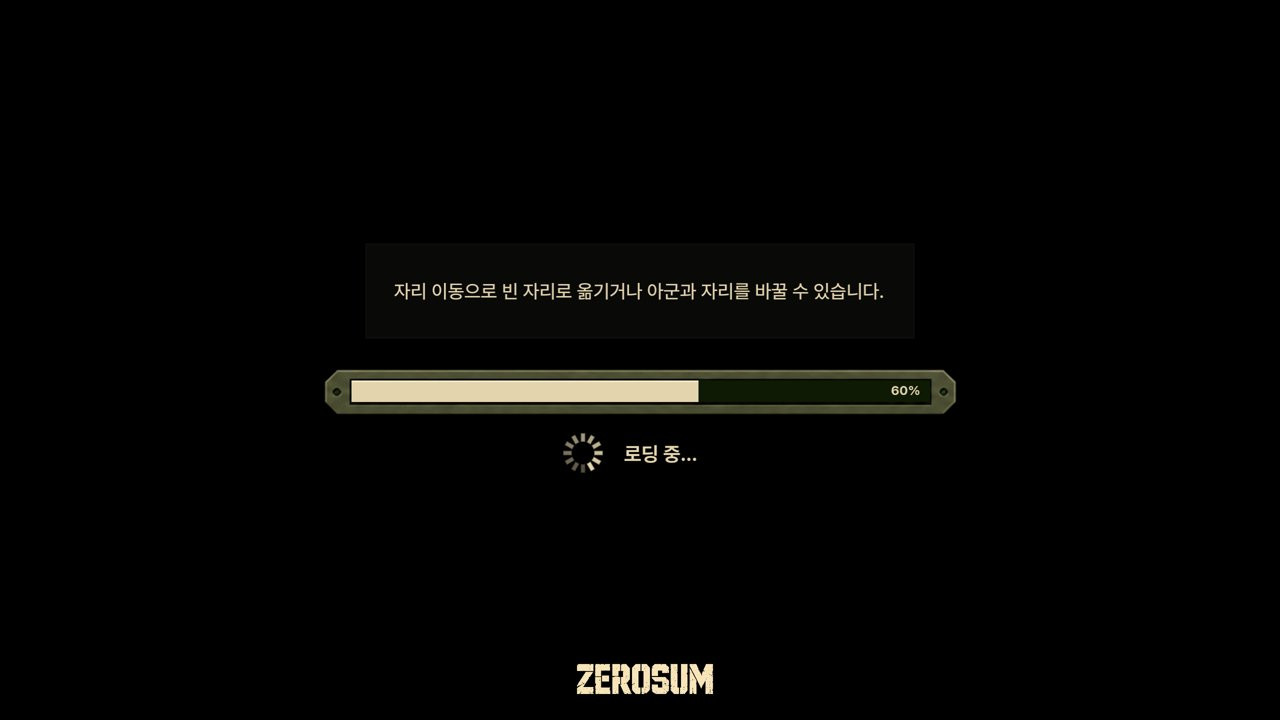
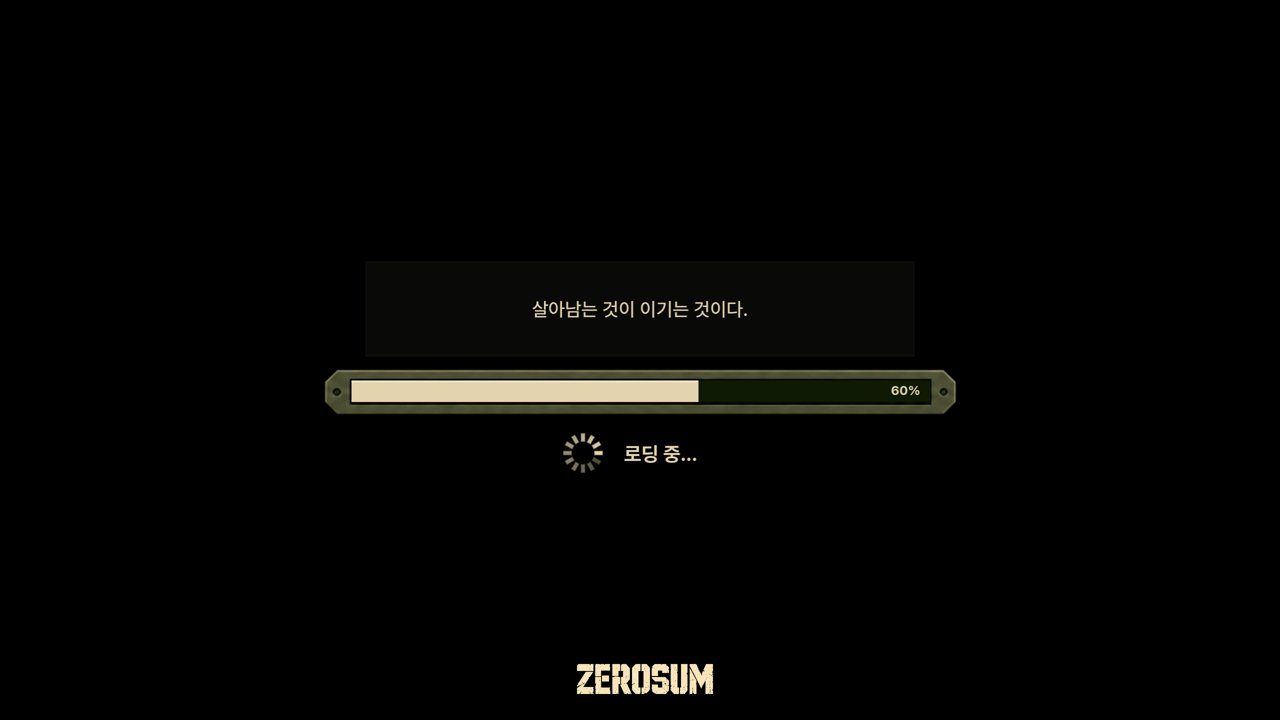
Base: ignore move orders while paused and stop walking in place; lower loading tip
Claude-Session: https://claude.ai/code/session_014aytw3hj7boqn3SZ5GP5ti

Changed region(s): [[0.3125, 0.3972, 0.6875, 0.4583], [0.4375, 0.6111, 0.4688, 0.6722]]

diff --git a/docs/design/PROTOTYPE_GDD_v1_0.md b/docs/design/PROTOTYPE_GDD_v1_0.md
@@ -4,8 +4,9 @@
 
 ## 0. 현재 구현 반영 (변경될 때마다 갱신)
 > 아래는 원 기획 이후 사용자 결정으로 바뀐 내용. 상세 결정 이력은 `00_decision_log_v1_0.md`, 아트 규격은 `../ui_art_spec.md`.
-> 마지막 갱신: 2026-10-31 (로딩 화면 + 로딩 멘트 표 data/loading_tips.xlsx)
+> 마지막 갱신: 2026-10-31 (기지 정지 중 = 이동 지시 안 받음 · 걷던 대원도 멈춤, 로딩 멘트 조금 아래)
 
+- **기지 정지(■) 중**: 대원을 골라 방을 눌러도 이동 지시를 받지 않음(반응 없음, 손가락 커서도 안 뜸). 시계가 멈춘 동안(정지 · 창 열림 · 전투 대기) 걷던 대원은 제자리 걷기 대신 서 있는 모습.
 - **로딩 화면** (레퍼런스 art_src/ui/loading/ref_loading.png): 기지 · 편성 · 전투 · 타이틀로 갈 때 — 검은 바탕, 바 위 로딩 멘트, 진행 바(그림 틀 + 크림색 채움 + %), 돌아가는 점선 고리 + "로딩 중...", 맨 아래 ZEROSUM 로고. 다음 장면을 백그라운드로 읽고(진행률 = 실제), 멘트를 읽을 수 있게 최소 1.2초. **로딩 멘트 = data/loading_tips.xlsx** 시트 "로딩 멘트"(열: 멘트 · 사용(X = 안 씀) · 장면(전체 · 기지 · 전투) · 메모) — 엑셀에서 줄을 더하거나 고치면 다음 로딩부터 바로 반영, 기지로 갈 땐 전체 + 기지 멘트, 전투 · 편성으로 갈 땐 전체 + 전투 멘트 중 무작위(바로 전 멘트는 피함).
 - **타이틀 화면 v2** (사용자 제공 그림 art_src/ui/title/ · 레퍼런스 ref_title.webp): 배경 한 장 + 위 로고 "ZEROSUM"(사용자 제공 logo_zerosum.webp, 가운데보다 살짝 오른쪽) + 아래 띠(9칸 늘리기) 위 그림 버튼 4개 — 이어하기(저장 없으면 흐리게) · 새 게임(저장 있으면 덮어쓰기 확인) · 설정(전체 화면 켜고 끄기 · 전투 테스트 메뉴 — 개발용) · 종료. 마우스 올림 = 금빛으로 밝게 + 살짝 커짐.
 - **실행 창** = 창 모드 1920×1080 (project.godot 창 크기 1920×1080 · 창 모드, 시작할 때 최대화 · 전체 화면이면 창 모드로 되돌림, 제목줄 · 작업 표시줄 포함 화면보다 크면 16:9 로 줄임). F11 = 전체 화면. 에디터 게임 탭 안에 넣어 실행하면 크기는 에디터가 정함. 게임 좌표 1280×720 · 3D 배경 QHD 렌더는 그대로.

diff --git a/docs/design/00_decision_log_v1_0.md b/docs/design/00_decision_log_v1_0.md
@@ -704,6 +704,12 @@
 - 진행률: ResourceLoader 백그라운드 읽기의 실제 진행률과 시간(최소 1.2초) 중 느린 쪽. 장면의 _ready 작업(기지 3D 만들기 등)은 바뀐 뒤라 진행 바에 안 잡힘.
 - 로딩 멘트 표: 새 파일 data/loading_tips.xlsx (기존 엑셀은 안 건드림), 기본 멘트 16개(조작 · 시스템 안내 + 분위기 예시 1). 확인용 --scene=loading --loading_kind=기지|전투 (60% 정지).
 
+### 2026-10-31 — 기지 정지 중 이동 · 로딩 멘트 위치
+- 정지(속도 0) 중 방 클릭 이동 지시를 무시(예전: 지시는 들어가는데 시간이 안 흘러 대원이 제자리에서 걸음). 정지 중엔 방 위 손가락 커서도 안 뜸.
+- 시계가 멈춘 동안(정지 · 창 열림 · 전투 대기) 이동 중인 대원 = 서 있기(idle) 애니메이션.
+- 로딩 멘트 칸 18px 아래로(바 바로 위).
+- 확인용 스펙 speed:N · click:x:y.
+
 ## 검증 중 (확정 아님)
 - **배경 3D + 캐릭터 2D 하이브리드** (2026-10-25 적용): 배경은 3D 방을 2D 카메라와 같은 투영으로 렌더, 캐릭터 라이팅은 실제 광원 위치 기준
   (빛 쪽 얼굴·몸을 광원색으로 밝힘 + 빛이 뒤에서 오면 같은 쪽 가장자리 림 + 바닥 그림자). 캐릭터 2D(리그)는 확정 사항 유지. (이전 2D 배경 판은 2026-10-27 제거.)
